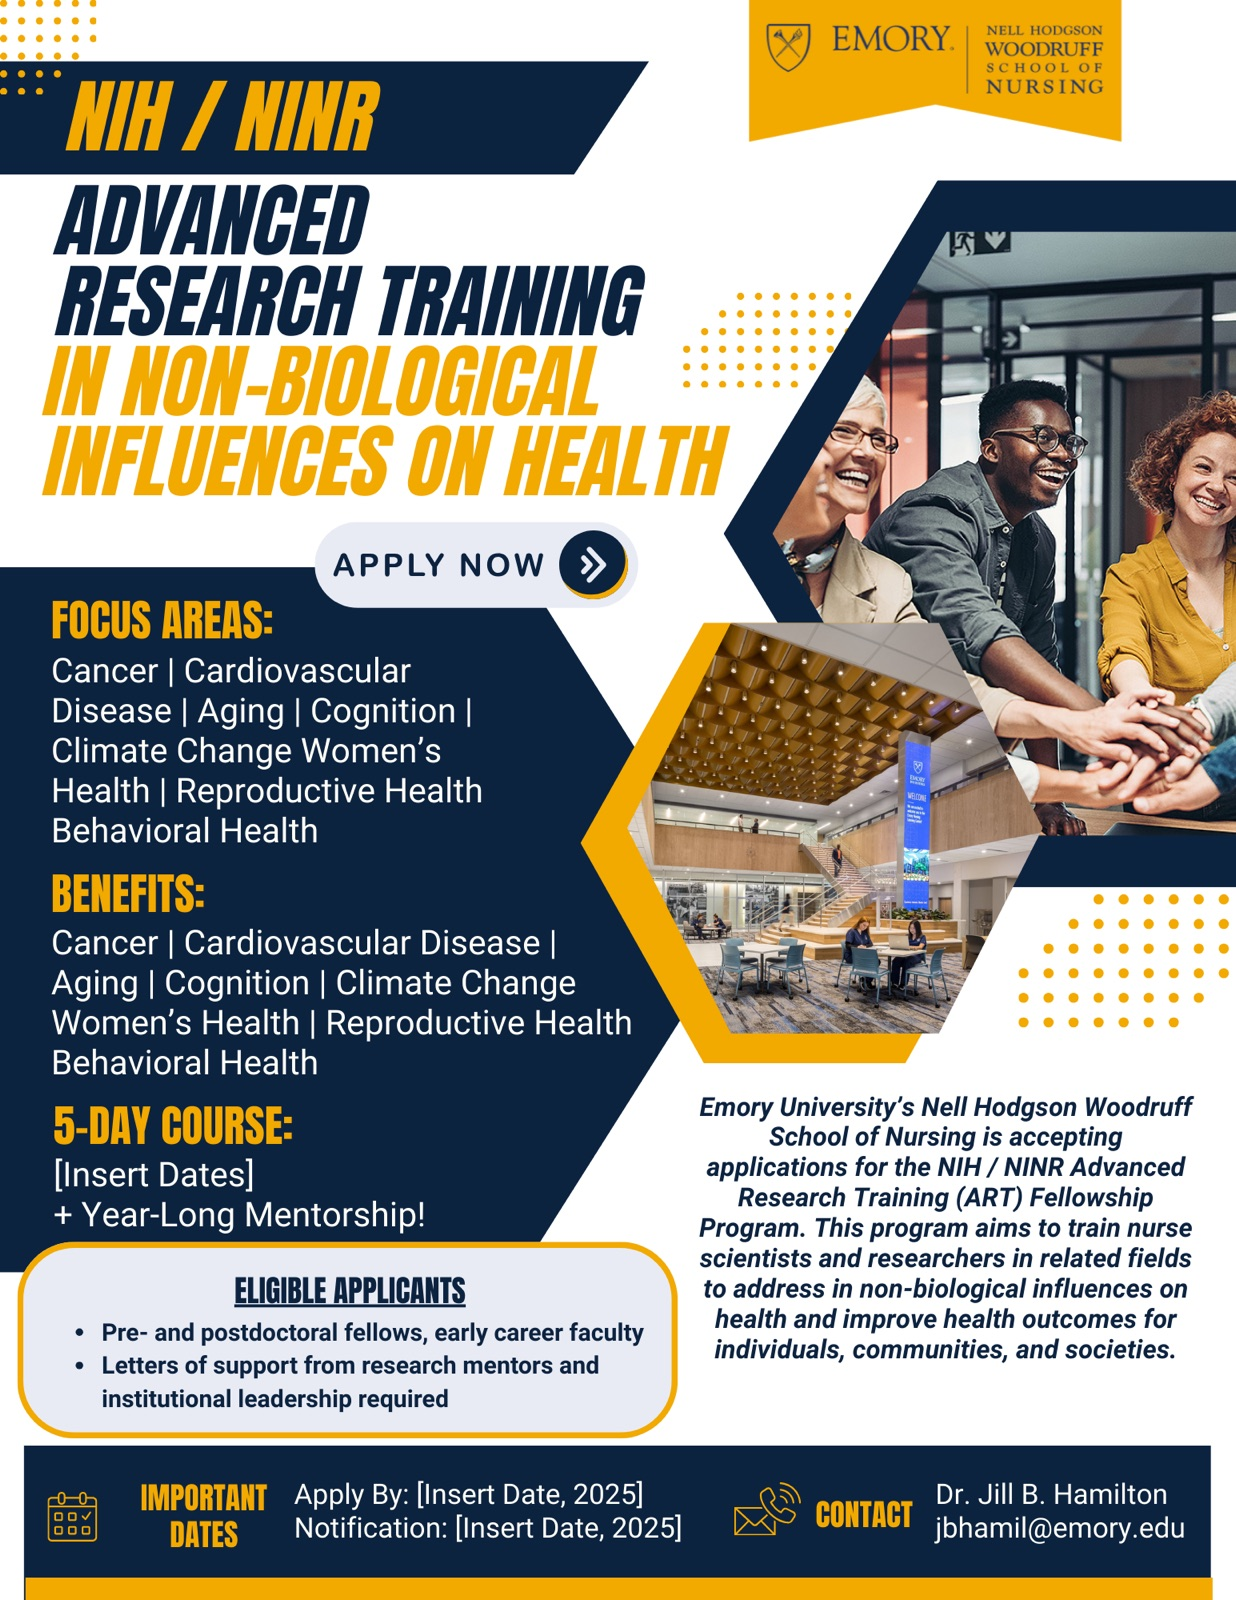
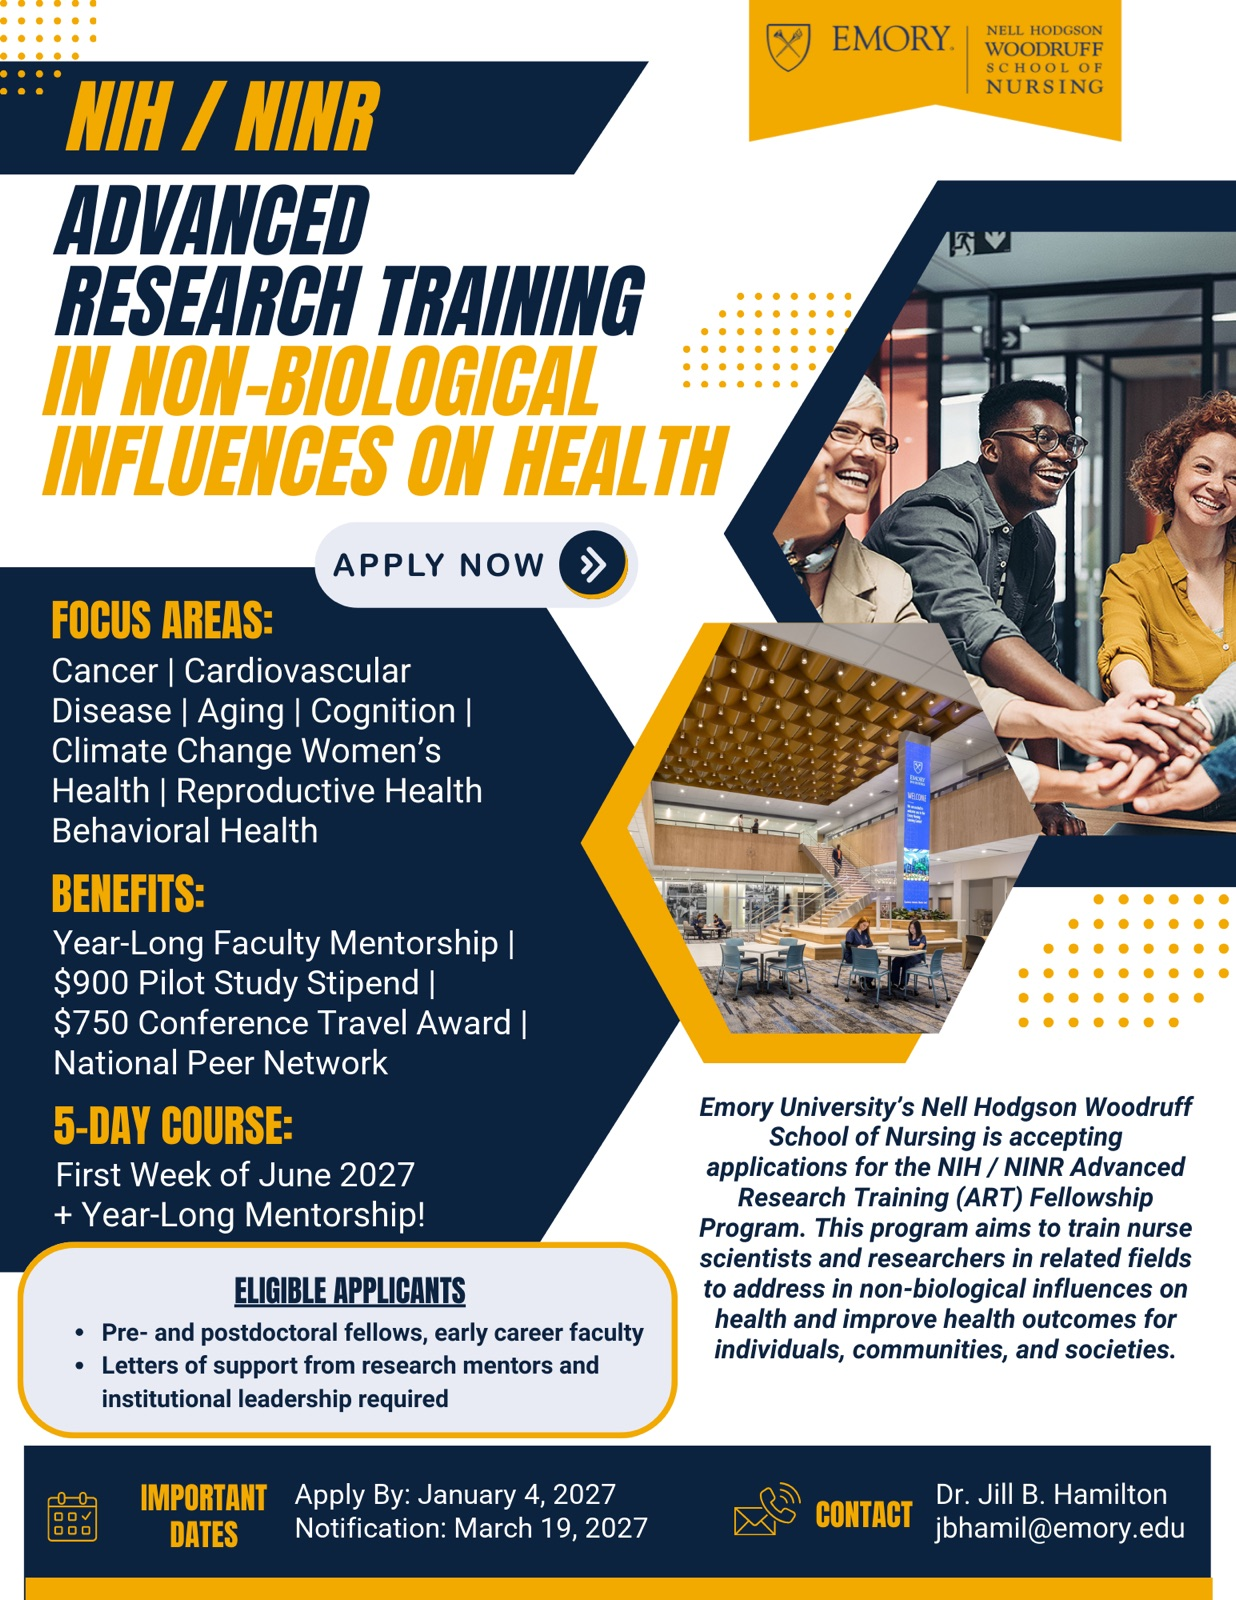
Collect Year 3 applications on the website
The Apply form now posts to a Cloudflare Worker that saves each applicant's
answers, CV and headshot to their own R2 folder and emails both program
leads. Dates updated per Dr. Hamilton: apply by Jan 4 2027, notification
March 19 2027, course first week of June 2027. Corrected flyer included.

Changed region(s): [[0.0307, 0.5625, 0.5227, 0.6875], [0.246, 0.9062, 0.5534, 0.9688], [0.0307, 0.7188, 0.3382, 0.75]]

diff --git a/worker/src/index.js b/worker/src/index.js
@@ -1,0 +1,146 @@
+import { EmailMessage } from 'cloudflare:email';
+
+// Field list, labels and "required" come from the live site's data/apply.json,
+// so editing the form there (or in the CMS) needs no change here.
+const MB = 1024 * 1024;
+const FILE_RULES = {
+  cv: { max: 10 * MB, exts: ['pdf', 'doc', 'docx'] },
+  photo: { max: 5 * MB, exts: ['jpg', 'jpeg', 'png', 'webp', 'heic'] },
+};
+const OTHER_FILE = { max: 10 * MB, exts: [...FILE_RULES.cv.exts, ...FILE_RULES.photo.exts] };
+const MAX_TOTAL = 15 * MB; // keeps each email under the 25 MB mail limit after base64
+
+export default {
+  async fetch(req, env) {
+    const allowed = env.ALLOWED_ORIGINS.split(',');
+    const origin = req.headers.get('Origin') || '';
+    const cors = {
+      'Access-Control-Allow-Origin': allowed.includes(origin) ? origin : allowed[0],
+      'Access-Control-Allow-Methods': 'POST, OPTIONS',
+      Vary: 'Origin',
+    };
+    const json = (status, body) =>
+      new Response(JSON.stringify(body), { status, headers: { ...cors, 'Content-Type': 'application/json' } });
+
+    if (req.method === 'OPTIONS') return new Response(null, { status: 204, headers: cors });
+    if (req.method !== 'POST' || new URL(req.url).pathname !== '/apply') return json(404, { error: 'Not found.' });
+    if (!allowed.includes(origin)) return json(403, { error: 'Applications are only accepted from the fellowship website.' });
+
+    let form;
+    try { form = await req.formData(); } catch { return json(400, { error: 'The form could not be read.' }); }
+    if (form.get('website')) return json(200, { ok: true, reference: 'received' }); // honeypot: bots get a fake success
+
+    const cfg = await fetch(`${env.SITE}/data/apply.json`, { cf: { cacheTtl: 300 } })
+      .then(r => (r.ok ? r.json() : null)).catch(() => null);
+    if (!cfg) return json(503, { error: 'The application service is temporarily unavailable.' });
+    if (!cfg.applicationsOpen) return json(403, { error: 'Applications are currently closed.' });
+
+    const answers = [];
+    const files = [];
+    let total = 0;
+    for (const f of cfg.fields.filter(f => f.enabled !== false)) {
+      const v = form.get(f.name);
+      if (f.type === 'file') {
+        if (!(v && typeof v === 'object' && v.size > 0)) {
+          if (f.required) return json(400, { error: `Please attach: ${f.label}.` });
+          continue;
+        }
+        const rule = FILE_RULES[f.name] || OTHER_FILE;
+        const ext = (v.name.split('.').pop() || '').toLowerCase();
+        if (!rule.exts.includes(ext)) return json(400, { error: `${f.label}: allowed file types are ${rule.exts.join(', ')}.` });
+        if (v.size > rule.max) return json(400, { error: `${f.label} is larger than ${rule.max / MB} MB.` });
+        total += v.size;
+        files.push({ field: f.name, ext, type: v.type || 'application/octet-stream', data: await v.arrayBuffer() });
+      } else if (f.type === 'checkbox') {
+        const on = v === 'on' || v === 'true';
+        if (f.required && !on) return json(400, { error: `Please confirm: ${f.label}` });
+        answers.push([f.label, on ? 'Yes' : 'No']);
+      } else {
+        const s = String(v || '').trim();
+        if (f.required && !s) return json(400, { error: `Please fill in: ${f.label}.` });
+        if (s.length > (f.type === 'textarea' ? 10000 : 500)) return json(400, { error: `${f.label} is too long.` });
+        if (f.type === 'email' && s && !/^[^\s@]+@[^\s@]+\.[^\s@]+$/.test(s)) return json(400, { error: 'Please enter a valid email address.' });
+        answers.push([f.label, s]);
+      }
+    }
+    if (total > MAX_TOTAL) return json(400, { error: 'Your files together are larger than 15 MB.' });
+
+    const now = new Date();
+    const name = String(form.get('fullName') || 'Applicant').replace(/[\r\n]+/g, ' ').trim();
+    const slug = name.normalize('NFKD').replace(/[^\w\s-]/g, '').trim().replace(/\s+/g, '-').slice(0, 60) || 'Applicant';
+    const reference = `${now.toISOString().slice(0, 10)}_${slug}_${crypto.randomUUID().slice(0, 6)}`;
+    const folder = `${cfg.cohortYear || now.getFullYear()}/${reference}/`;
+    const when = now.toLocaleString('en-US', { timeZone: 'America/New_York', dateStyle: 'long', timeStyle: 'short' });
+    const text = [
+      `SDOH ART Fellowship application (${cfg.cohortYear} cohort)`,
+      `Submitted: ${when} ET`,
+      `Reference: ${reference}`,
+      '',
+      ...answers.map(([k, v]) => `${k}:\n${v}\n`),
+      `Attached files: ${files.map(f => `${f.field}.${f.ext}`).join(', ') || 'none'}`,
+    ].join('\n');
+
+    try {
+      await env.APPLICATIONS.put(folder + 'application.txt', text, { httpMetadata: { contentType: 'text/plain; charset=utf-8' } });
+      for (const f of files) await env.APPLICATIONS.put(`${folder}${f.field}.${f.ext}`, f.data, { httpMetadata: { contentType: f.type } });
+    } catch (e) {
+      console.error('R2 save failed', e);
+      return json(500, { error: 'We could not save your application.' });
+    }
+
+    // The application is safely stored; a failed email must not turn into a failed submission.
+    const replyTo = String(form.get('email') || '').trim();
+    for (const to of env.NOTIFY_TO.split(',').map(s => s.trim()).filter(Boolean)) {
+      try {
+        const raw = mime({
+          from: env.FROM, to, replyTo: /^[^\s@]+@[^\s@]+\.[^\s@]+$/.test(replyTo) ? replyTo : '',
+          subject: `New SDOH ART application: ${name}`, text,
+          files: files.map(f => ({ filename: `${slug}_${f.field}.${f.ext}`, type: f.type, data: f.data })),
+        });
+        await env.MAILER.send(new EmailMessage(env.FROM, to, raw));
+      } catch (e) {
+        console.error('email failed', to, e);
+      }
+    }
+    return json(200, { ok: true, reference });
+  },
+};
+
+function b64(buf) {
+  const a = new Uint8Array(buf);
+  let s = '';
+  for (let i = 0; i < a.length; i += 0x8000) s += String.fromCharCode(...a.subarray(i, i + 0x8000));
+  return btoa(s);
+}
+const wrap = s => s.replace(/.{1,76}/g, '$&\r\n');
+const utf8 = s => new TextEncoder().encode(s);
+
+export function mime({ from, to, replyTo, subject, text, files }) {
+  const b = 'b' + crypto.randomUUID();
+  return [
+    `From: SDOH ART Fellowship <${from}>`,
+    `To: ${to}`,
+    ...(replyTo ? [`Reply-To: ${replyTo}`] : []),
+    `Subject: =?UTF-8?B?${b64(utf8(subject))}?=`,
+    `Date: ${new Date().toUTCString()}`,
+    `Message-ID: <${crypto.randomUUID()}@${from.split('@')[1]}>`,
+    'MIME-Version: 1.0',
+    `Content-Type: multipart/mixed; boundary="${b}"`,
+    '',
+    `--${b}`,
+    'Content-Type: text/plain; charset=utf-8',
+    'Content-Transfer-Encoding: base64',
+    '',
+    wrap(b64(utf8(text))),
+    ...files.flatMap(f => [
+      `--${b}`,
+      `Content-Type: ${f.type}; name="${f.filename}"`,
+      `Content-Disposition: attachment; filename="${f.filename}"`,
+      'Content-Transfer-Encoding: base64',
+      '',
+      wrap(b64(f.data)),
+    ]),
+    `--${b}--`,
+    '',
+  ].join('\r\n');
+}

diff --git a/assets/js/app.js b/assets/js/app.js
@@ -380,8 +380,10 @@ function renderApply() {
         <p style="margin:0"><strong>Deadline.</strong> ${escapeHtml(cfg.deadline)}</p>
       </div>
       <p>${escapeHtml(cfg.intro)}</p>
+      ${cfg.referencesNote ? `<div class="form-note"><p style="margin:0"><strong>Reference letters.</strong> ${escapeHtml(cfg.referencesNote).replace(/([\w.+-]+@[\w-]+(?:\.[\w-]+)+)/, '<a href="mailto:$1">$1</a>')}</p></div>` : ''}
       <div id="applyMsg"></div>
       <form class="form-card" id="applyForm" name="application" enctype="multipart/form-data" novalidate>
+        <div class="hp" aria-hidden="true"><label>Leave this empty <input type="text" name="website" tabindex="-1" autocomplete="off" /></label></div>
         ${fields.map(fieldMarkup).join('')}
         <div class="form-actions">
           <button type="submit" class="btn btn-primary">Submit application</button>
@@ -434,11 +436,31 @@ function submitApplication(e) {
   e.preventDefault();
   const form = e.target;
   if (!form.checkValidity()) { form.reportValidity(); return; }
-  const data = new FormData(form);
-  data.append('form-name', 'application');
-  fetch('/', { method: 'POST', body: data }).catch(() => {});
-  $('#applyMsg').innerHTML = `<div class="form-success">Thank you — your application has been submitted. A program coordinator will be in touch. You can download a PDF copy below for your records.</div>`;
-  $('#applyMsg').scrollIntoView({ behavior: 'smooth', block: 'center' });
+  const btn = form.querySelector('button[type=submit]');
+  const msg = $('#applyMsg');
+  const show = html => { msg.innerHTML = html; msg.scrollIntoView({ behavior: 'smooth', block: 'center' }); };
+  const limits = { cv: 10, photo: 5 };
+  for (const [name, mb] of Object.entries(limits)) {
+    const file = form.elements[name] && form.elements[name].files[0];
+    if (file && file.size > mb * 1024 * 1024) {
+      show(`<div class="form-error">The file "${escapeHtml(file.name)}" is larger than ${mb} MB. Please attach a smaller file.</div>`);
+      return;
+    }
+  }
+  btn.disabled = true; btn.textContent = 'Submitting…';
+  fetch(store.apply.submitEndpoint, { method: 'POST', body: new FormData(form) })
+    .catch(() => { throw new Error('We could not reach the application server. Check your internet connection.'); })
+    .then(r => r.json().catch(() => ({})).then(j => ({ ok: r.ok, j })))
+    .then(({ ok, j }) => {
+      if (!ok) throw new Error(j.error || 'The server could not accept your application.');
+      form.querySelectorAll('input, textarea, select').forEach(el => { el.disabled = true; });
+      btn.textContent = 'Submitted';
+      show(`<div class="form-success">Thank you, your application has been received (reference ${escapeHtml(j.reference || '')}). Fellows will be notified by March 19, 2027. You can still download a copy of your answers below.</div>`);
+    })
+    .catch(err => {
+      btn.disabled = false; btn.textContent = 'Submit application';
+      show(`<div class="form-error"><strong>Your application was not submitted.</strong> ${escapeHtml(err.message)} Please try again. If it keeps failing, email <a href="mailto:EmoryArt@emory.edu">EmoryArt@emory.edu</a>.</div>`);
+    });
 }
 
 function downloadCopy(fields) {

diff --git a/assets/css/styles.css b/assets/css/styles.css
@@ -506,3 +506,5 @@ img { max-width: 100%; display: block; }
   .news-card .thumb { min-height: 320px; }
 }
 .flyer-img { display: block; width: 100%; max-width: 560px; margin: 8px auto 14px; border-radius: var(--r); border: 1px solid var(--line); box-shadow: var(--shadow-sm); }
+.form-error { background: #fdecec; border: 1px solid #f3b9b9; color: #8a1c1c; border-radius: var(--r); padding: 14px 18px; margin-bottom: 18px; font-size: .92rem; }
+.hp { position: absolute; left: -9999px; width: 1px; height: 1px; overflow: hidden; }

diff --git a/worker/README.md b/worker/README.md
@@ -1,0 +1,32 @@
+# Application intake (Cloudflare Worker)
+
+Receives the Apply form from sdohartfellowship.org at
+`https://apply.sdohartfellowship.org/apply`. For each applicant it:
+
+1. Checks the answers against the live `data/apply.json` (same fields as the form).
+2. Saves them to the R2 bucket `sdoh-art-applications`, one folder per person:
+   `2027/<date>_<First-Last>_<id>/application.txt`, `cv.pdf`, `photo.jpg`.
+3. Emails the answers and files to everyone in `NOTIFY_TO` (wrangler.toml).
+
+## One-time setup (Cloudflare dashboard, account that owns the domain)
+
+1. **R2**: enable R2 (free tier), create bucket `sdoh-art-applications`.
+2. **Email Routing** on sdohartfellowship.org: enable it, then add and verify
+   each address in `NOTIFY_TO` as a destination. Each person must click the
+   verification link Cloudflare sends them.
+3. Deploy from this folder (needs Node):
+   ```
+   npx wrangler login
+   npx wrangler deploy
+   ```
+   This also creates the `apply.sdohartfellowship.org` subdomain.
+
+## Reading applications
+
+Emails arrive per applicant. The full archive is in Cloudflare dashboard →
+R2 → `sdoh-art-applications`; download any folder from there.
+
+## Changing recipients
+
+Edit `NOTIFY_TO` in wrangler.toml, verify the new address in Email Routing,
+then `npx wrangler deploy`.
